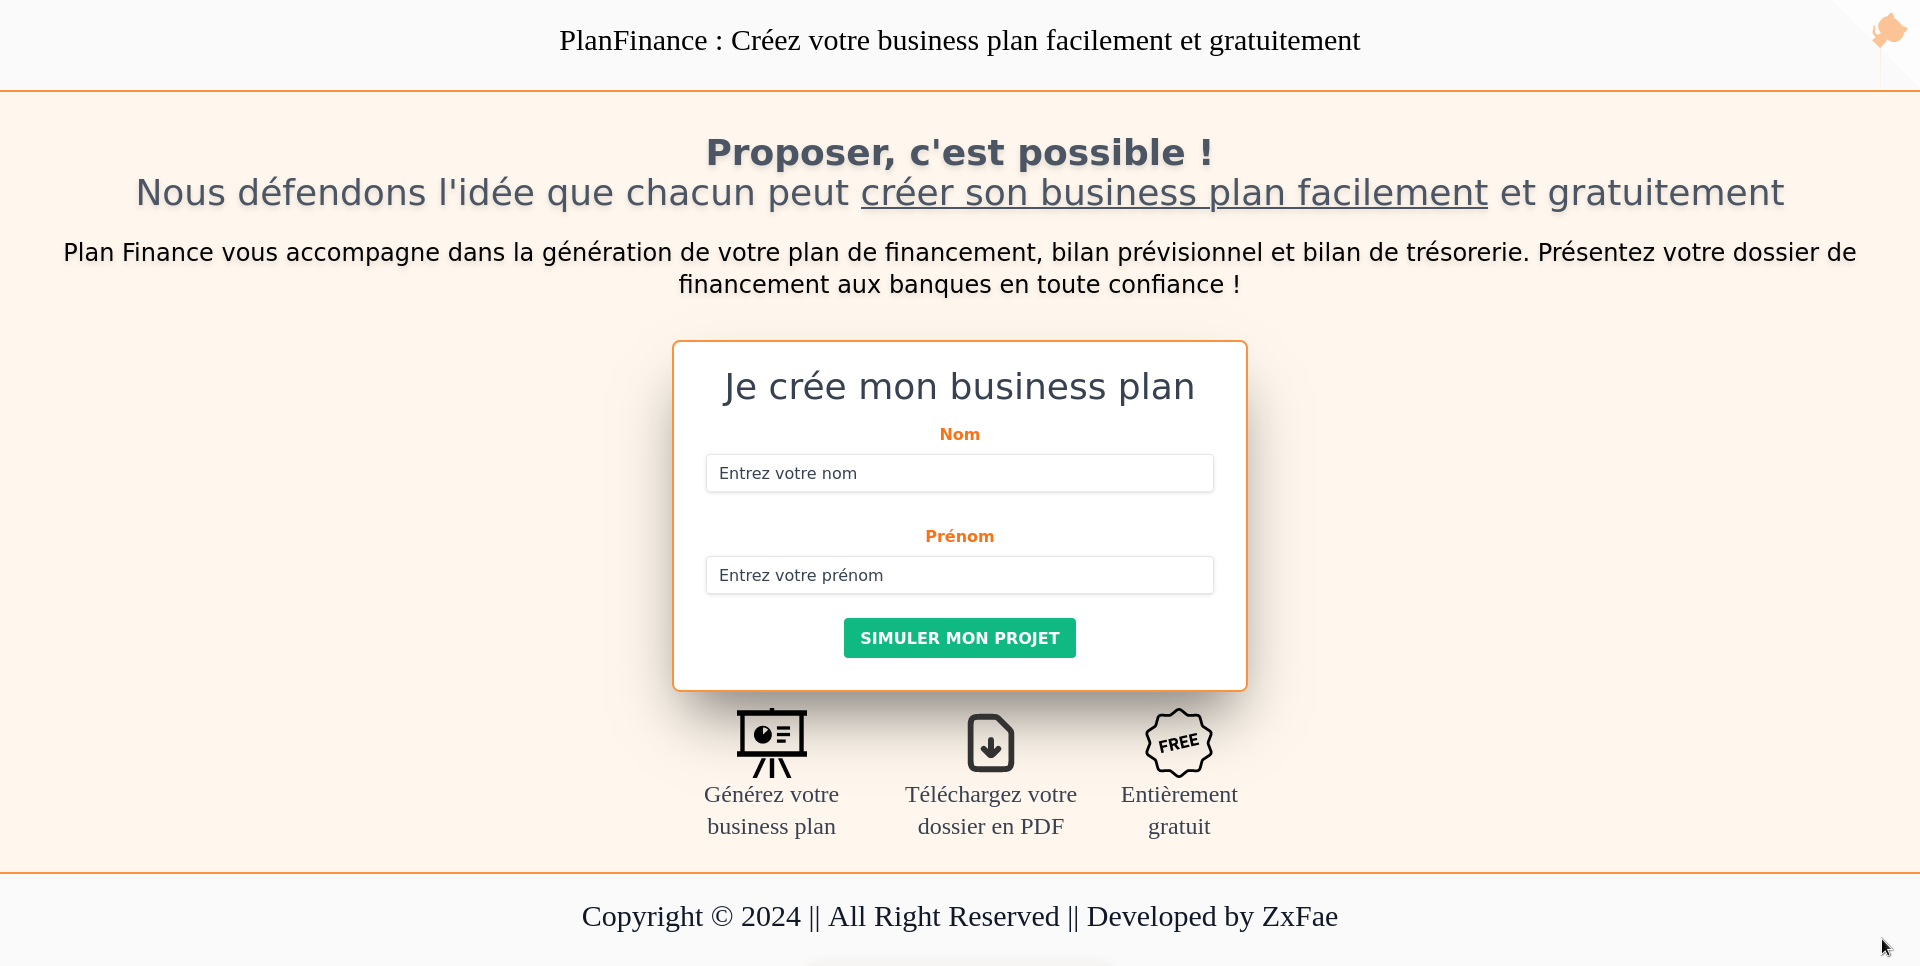
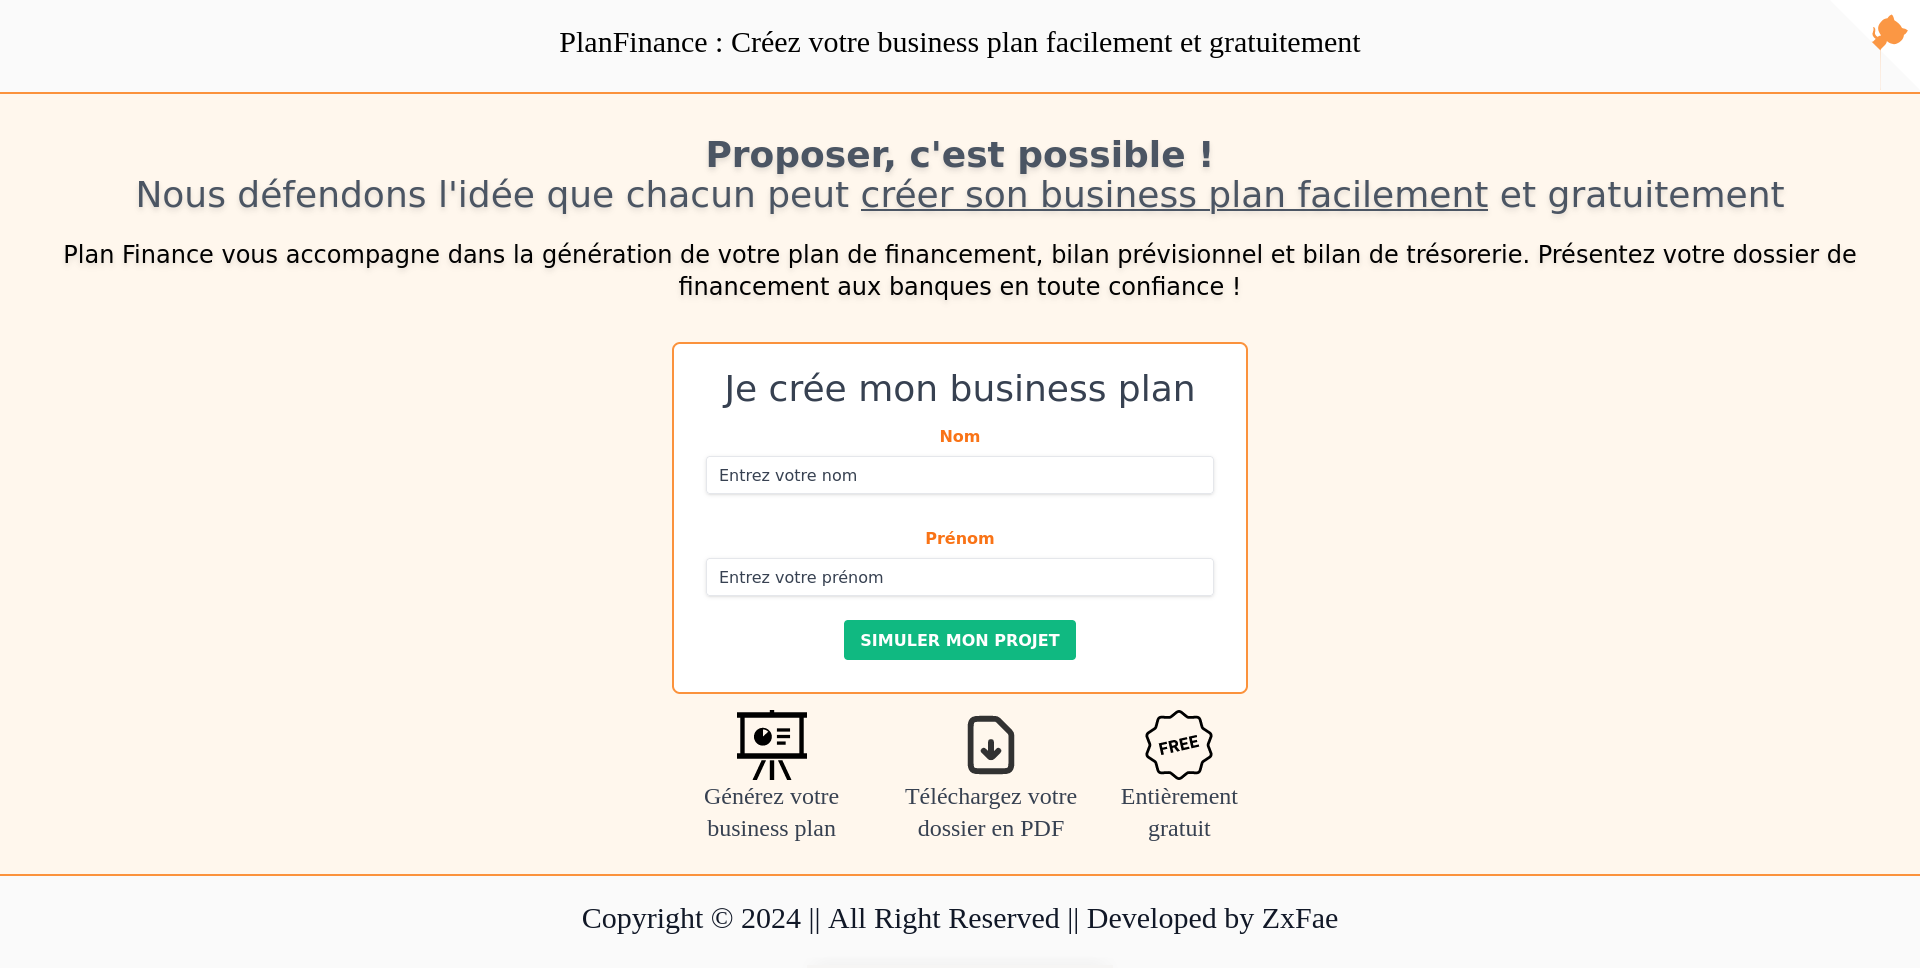
Final homepage, update readme

diff --git a/frontend/src/home.rs b/frontend/src/home.rs
@@ -112,7 +112,7 @@ impl Component for FormModel {
                         </div>
                     </div>
                     <div class="w-full max-w-xl mx-auto">
-                        <form class="border-solid border-2 border-orange-400 bg-white shadow-[0_35px_60px_-15px_rgba(0,0,0,0.5)] rounded-lg px-8 pt-6 pb-8 mb-4" onsubmit={ctx.link().callback(|e: SubmitEvent| {
+                        <form class="border-solid border-2 border-orange-400 bg-white rounded-lg px-8 pt-6 pb-8 mb-4" onsubmit={ctx.link().callback(|e: SubmitEvent| {
                             e.prevent_default();
                             Msg::Submit
                         })}>
